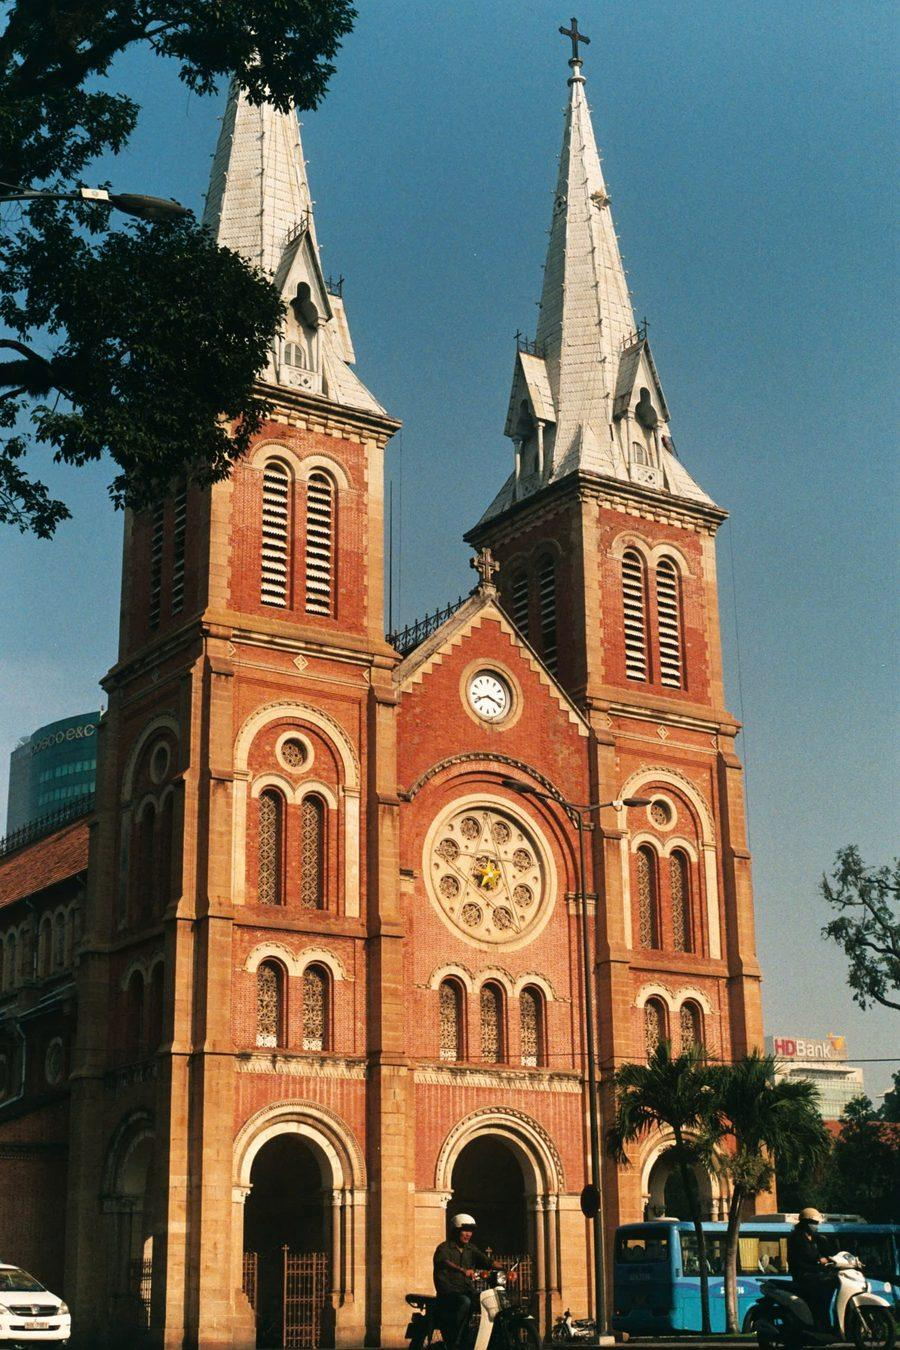
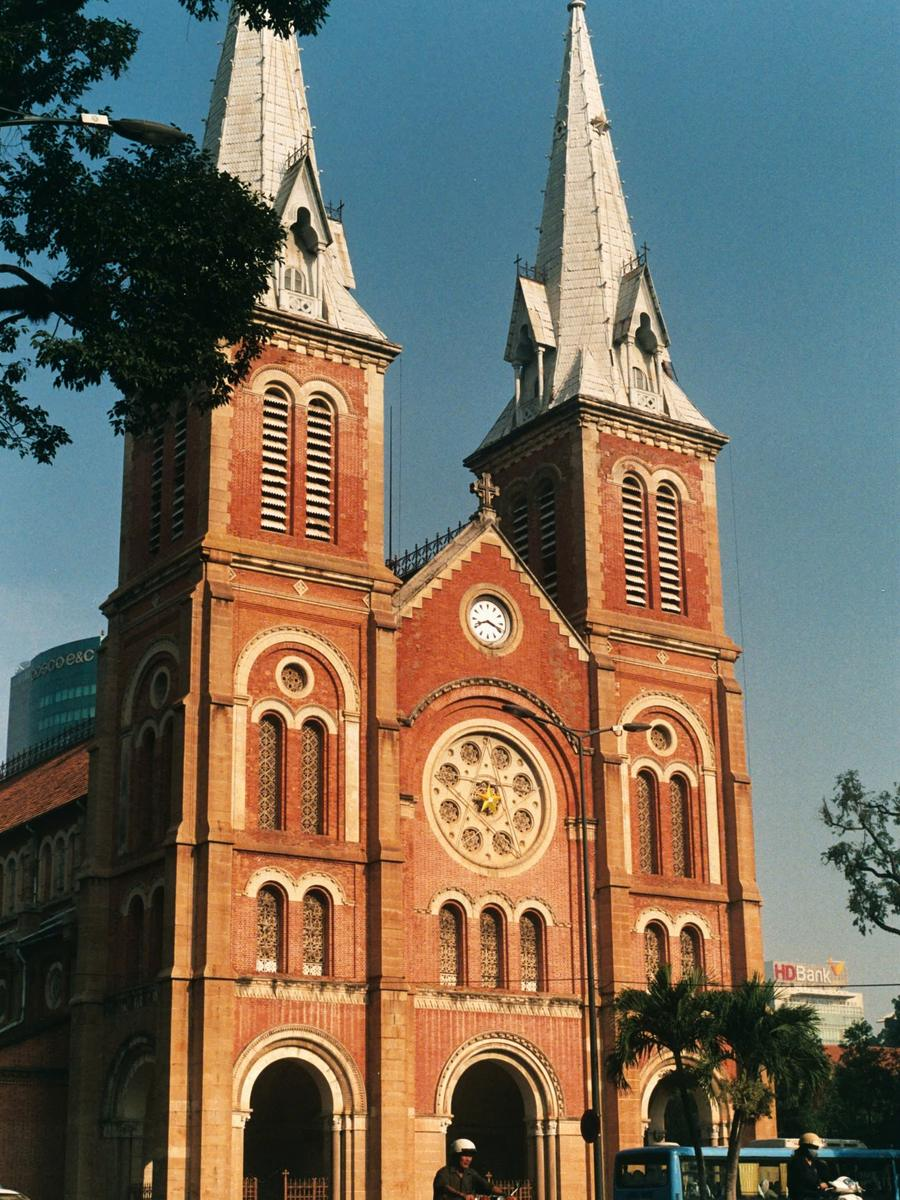
About: ảnh tỉ lệ 3:4 theo Figma (desktop 360 × 480, mobile 171 × 228)
Claude-Session: https://claude.ai/code/session_0125J9JXyfPE3GceF83rZHZp

diff --git a/index.html b/index.html
@@ -9,7 +9,7 @@
   <!-- iOS: no automatic links (and their underline) on the email / phone -->
   <meta name="format-detection" content="telephone=no, email=no, address=no, date=no">
   <link rel="preload" href="assets/fonts/AnNamSerif-VF.woff2?v=0.913s" as="font" type="font/woff2" crossorigin>
-  <link rel="stylesheet" href="assets/css/style.css?v=202611120539">
+  <link rel="stylesheet" href="assets/css/style.css?v=202611120541">
   <!-- the loading screen plays once per visit; coming back from another
        page of the site (Contact) Home just rolls in -->
   <script>(function (r) { var seen = false; try { seen = sessionStorage.getItem("dz-seen") === "1"; history.scrollRestoration = "manual"; } catch (e) {}
@@ -25,7 +25,7 @@
       <p class="loader-contact trim">hello@dizai.studio<br>+84 937 937 195<br>Saigon, Vietnam</p>
     </div>
     <div class="loader-bottom">
-      <img class="seal" src="assets/img/dizai-studio-seal.svg?v=202611120539" width="199" height="231" alt="">
+      <img class="seal" src="assets/img/dizai-studio-seal.svg?v=202611120541" width="199" height="231" alt="">
       <p class="display loader-count">0%</p>
     </div>
   </div>
@@ -52,7 +52,7 @@
       <p class="display line-design">DESIGN</p>
       <p class="display line-studio">STUDIO</p>
       <div class="type-row">
-        <img class="seal" src="assets/img/dizai-studio-seal.svg?v=202611120539" width="199" height="231" alt="">
+        <img class="seal" src="assets/img/dizai-studio-seal.svg?v=202611120541" width="199" height="231" alt="">
         <p class="display line-est">EST</p>
         <p class="display line-year">2024</p>
       </div>
@@ -81,17 +81,17 @@
   </main>
 
   <section class="work" id="work" aria-label="Work">
-    <img class="work-mark" src="assets/img/dizai-mark.svg?v=202611120539" width="83" height="104" alt="">
+    <img class="work-mark" src="assets/img/dizai-mark.svg?v=202611120541" width="83" height="104" alt="">
     <h2 class="display work-title">WORK</h2>
     <p class="work-hint trim" aria-hidden="true">Scroll down</p>
     <ul class="work-list">
-      <li class="work-card" data-cat="Website" data-name="CHOCHOI creative website" data-desc="ChoChoi is a glocal-minded branding studio"><a href="work/chochoi/"><img src="assets/img/work/chochoi.jpg?v=202611120539" width="1146" height="860" alt="ChoChoi Creative website on a desktop screen"></a></li>
-      <li class="work-card" data-cat="Mobile Application" data-name="Viettel POST" data-desc="Viettel Post is one of Vietnam’s largest logistics providers"><a href="work/viettel-post/"><img src="assets/img/work/viettel-post-app.jpg?v=202611120539" width="1146" height="860" alt="Viettel Post mobile app in hand"></a></li>
-      <li class="work-card" data-cat="Web Application" data-name="NURIFLEX" data-desc="One-stop Provider In Rooftop Solar Solution"><a href="work/nuriflex/"><img src="assets/img/work/nuriflex.jpg?v=202611120539" width="1146" height="860" alt="NuriFlex dashboard, Meter Alarm screen"></a></li>
-      <li class="work-card" data-cat="Website" data-name="NUFF JUICE" data-desc="A tropical fruit juice brand made from Vietnamese fruit—freshly pressed and never from concentrate."><a href="work/nuff/"><img src="assets/img/work/nuff.jpg?v=202611120539" width="1146" height="860" alt="NUFF passion fruit juice website"></a></li>
-      <li class="work-card" data-cat="Tablet &amp; Mobile Application" data-name="Viettel Tammi" data-desc="Viettel Tammi is an all-in-one super app and a new digital ecosystem developed by Viettel Telecom."><a href="work/viettel-tammi/"><img src="assets/img/work/viettel-tammi.jpg?v=202611120539" width="1146" height="860" alt="Viettel Tammi sign-in screen on a TV"></a></li>
-      <li class="work-card" data-cat="Website" data-name="FARMERS MARKET" data-desc="The shop produces sausages, salami, Wisconsin cheeses, and game-meat snack sticks using traditional, old-fashioned methods."><a href="work/farmers-market/"><img src="assets/img/work/farmers-market.jpg?v=202611120539" width="1146" height="860" alt="Farmers Market website, Spicy Cajun summer sausage page"></a></li>
-      <li class="work-card" data-cat="Design System" data-name="Zen Design System" data-desc="The only design system for every products you imagine"><a href="work/zen-design-system/"><img src="assets/img/work/zen-design-system.jpg?v=202611120539" width="1146" height="860" alt="Zen Design System cover"></a></li>
+      <li class="work-card" data-cat="Website" data-name="CHOCHOI creative website" data-desc="ChoChoi is a glocal-minded branding studio"><a href="work/chochoi/"><img src="assets/img/work/chochoi.jpg?v=202611120541" width="1146" height="860" alt="ChoChoi Creative website on a desktop screen"></a></li>
+      <li class="work-card" data-cat="Mobile Application" data-name="Viettel POST" data-desc="Viettel Post is one of Vietnam’s largest logistics providers"><a href="work/viettel-post/"><img src="assets/img/work/viettel-post-app.jpg?v=202611120541" width="1146" height="860" alt="Viettel Post mobile app in hand"></a></li>
+      <li class="work-card" data-cat="Web Application" data-name="NURIFLEX" data-desc="One-stop Provider In Rooftop Solar Solution"><a href="work/nuriflex/"><img src="assets/img/work/nuriflex.jpg?v=202611120541" width="1146" height="860" alt="NuriFlex dashboard, Meter Alarm screen"></a></li>
+      <li class="work-card" data-cat="Website" data-name="NUFF JUICE" data-desc="A tropical fruit juice brand made from Vietnamese fruit—freshly pressed and never from concentrate."><a href="work/nuff/"><img src="assets/img/work/nuff.jpg?v=202611120541" width="1146" height="860" alt="NUFF passion fruit juice website"></a></li>
+      <li class="work-card" data-cat="Tablet &amp; Mobile Application" data-name="Viettel Tammi" data-desc="Viettel Tammi is an all-in-one super app and a new digital ecosystem developed by Viettel Telecom."><a href="work/viettel-tammi/"><img src="assets/img/work/viettel-tammi.jpg?v=202611120541" width="1146" height="860" alt="Viettel Tammi sign-in screen on a TV"></a></li>
+      <li class="work-card" data-cat="Website" data-name="FARMERS MARKET" data-desc="The shop produces sausages, salami, Wisconsin cheeses, and game-meat snack sticks using traditional, old-fashioned methods."><a href="work/farmers-market/"><img src="assets/img/work/farmers-market.jpg?v=202611120541" width="1146" height="860" alt="Farmers Market website, Spicy Cajun summer sausage page"></a></li>
+      <li class="work-card" data-cat="Design System" data-name="Zen Design System" data-desc="The only design system for every products you imagine"><a href="work/zen-design-system/"><img src="assets/img/work/zen-design-system.jpg?v=202611120541" width="1146" height="860" alt="Zen Design System cover"></a></li>
     </ul>
     <div class="work-caption" aria-hidden="true"><ol class="wc-list"></ol></div>
   </section>
@@ -100,11 +100,11 @@
 
   <div class="cursor cursor-invert" aria-hidden="true"></div>
   <div class="cursor cursor-tint" aria-hidden="true"></div>
-  <script src="assets/js/roll.js?v=202611120539"></script>
-  <script src="assets/js/loader.js?v=202611120539"></script>
+  <script src="assets/js/roll.js?v=202611120541"></script>
+  <script src="assets/js/loader.js?v=202611120541"></script>
   <script src="assets/vendor/gsap/gsap.min.js?v=3.15.0"></script>
   <script src="assets/vendor/gsap/CustomEase.min.js?v=3.15.0"></script>
-  <script src="assets/js/work.js?v=202611120539"></script>
-  <script src="assets/js/cursor.js?v=202611120539"></script>
+  <script src="assets/js/work.js?v=202611120541"></script>
+  <script src="assets/js/cursor.js?v=202611120541"></script>
 </body>
 </html>

diff --git a/about/index.html b/about/index.html
@@ -9,7 +9,7 @@
   <!-- iOS: no automatic links (and their underline) on the email / phone -->
   <meta name="format-detection" content="telephone=no, email=no, address=no, date=no">
   <link rel="preload" href="../assets/fonts/AnNamSerif-VF.woff2?v=0.913s" as="font" type="font/woff2" crossorigin>
-  <link rel="stylesheet" href="../assets/css/style.css?v=202611120539">
+  <link rel="stylesheet" href="../assets/css/style.css?v=202611120541">
   <script>(function (r) { r.classList.add("is-entering"); try { history.scrollRestoration = "manual"; } catch (e) {}
     setTimeout(function () { r.classList.remove("is-entering"); }, 3000); })(document.documentElement)</script>
 </head>
@@ -31,7 +31,7 @@
   </header>
 
   <main class="ab">
-    <img class="cp-mark ab-mark" src="../assets/img/dizai-mark.svg?v=202611120539" width="83" height="104" alt="">
+    <img class="cp-mark ab-mark" src="../assets/img/dizai-mark.svg?v=202611120541" width="83" height="104" alt="">
 
     <address class="contact cp-info ab-info trim">
       <a href="mailto:hello@dizai.studio">hello@dizai.studio</a><br>
@@ -47,7 +47,7 @@
       <span class="ab-line">Experiences</span>
     </h1>
 
-    <div class="ab-photo-box"><img class="ab-photo" src="../assets/img/about-saigon.jpg?v=202611120539" width="900" height="1350" alt="Notre-Dame Cathedral Basilica of Saigon under a blue sky"></div>
+    <div class="ab-photo-box"><img class="ab-photo" src="../assets/img/about-saigon.jpg?v=202611120541" width="900" height="1200" alt="Notre-Dame Cathedral Basilica of Saigon under a blue sky"></div>
 
     <div class="ab-text">
       <p class="trim">We are designers from Vietnam, inspired by top-tier design work from within Vietnam.</p>
@@ -70,9 +70,9 @@
 
   <div class="cursor cursor-invert" aria-hidden="true"></div>
   <div class="cursor cursor-tint" aria-hidden="true"></div>
-  <script src="../assets/js/roll.js?v=202611120539"></script>
+  <script src="../assets/js/roll.js?v=202611120541"></script>
   <script src="../assets/vendor/gsap/gsap.min.js?v=3.15.0"></script>
-  <script src="../assets/js/about.js?v=202611120539"></script>
-  <script src="../assets/js/cursor.js?v=202611120539"></script>
+  <script src="../assets/js/about.js?v=202611120541"></script>
+  <script src="../assets/js/cursor.js?v=202611120541"></script>
 </body>
 </html>

diff --git a/assets/css/style.css b/assets/css/style.css
@@ -713,7 +713,7 @@ body::after {
 /* ---------- About (Figma 35:29437, 1512 × 2101; mobile 35:29599) ----------
    A long page in units of the 1432 content width: MAKE IDEAS / INTO
    IMPACTFULL / EXPERIENCES (Regular 172, line height 0.8: 18 between the
-   cap boxes), the arched photo of Saigon (360 × 540), two lines about the
+   cap boxes), the arched photo of Saigon (360 × 480), two lines about the
    studio, then SEND US YOUR PROBLEMS, HELLO@ / DIZAI.STUDIO (172) and
    LINKEDIN ✱ FACEBOOK as on Contact, © 2024 at the foot. The contact block
    top left, the "đs" mark top centre and the menu stay at the top. */
@@ -762,7 +762,7 @@ body::after {
 .ab-photo {
   display: block;
   width: calc(var(--u) * 360);
-  height: calc(var(--u) * 540);
+  height: calc(var(--u) * 480);
   margin-top: calc(var(--u) * 39);
   object-fit: cover;
   border-radius: 9999px 9999px 0 0; /* an arch: a half circle on top */
@@ -786,14 +786,14 @@ body::after {
 .is-entering .ab { visibility: hidden; }
 @media (max-width: 720px) {
   /* phone (units of 358): the title on four lines (70, 7 apart), the
-     photo 171 × 257, everything 24 apart; the email on three lines (70) */
+     photo 171 × 228, everything 24 apart; the email on three lines (70) */
   .ab { --u: calc(100cqi / 358); }
   .ab-flow { padding-top: calc(var(--u) * 138); }
   .ab-mark { top: 44px; }
   .page-about .cp-info { display: none; }
   .ab-title { font-size: calc(var(--u) * 70); gap: calc(var(--u) * 7); }
   .ab-em { display: block; margin: calc(var(--u) * 7) 0 0; font-variation-settings: normal; }
-  .ab-photo { width: calc(var(--u) * 171); height: calc(var(--u) * 257); margin-top: calc(var(--u) * 24); }
+  .ab-photo { width: calc(var(--u) * 171); height: calc(var(--u) * 228); margin-top: calc(var(--u) * 24); }
   .ab-text { width: 100%; margin-top: calc(var(--u) * 24); }
   .ab-contact { --fs: calc(var(--u) * 70); margin-top: calc(var(--u) * 80); gap: 12px; }
   .ab-copy { margin-top: calc(var(--u) * 77); }

diff --git a/contact/index.html b/contact/index.html
@@ -9,7 +9,7 @@
   <!-- iOS: no automatic links (and their underline) on the email / phone -->
   <meta name="format-detection" content="telephone=no, email=no, address=no, date=no">
   <link rel="preload" href="../assets/fonts/AnNamSerif-VF.woff2?v=0.913s" as="font" type="font/woff2" crossorigin>
-  <link rel="stylesheet" href="../assets/css/style.css?v=202611120539">
+  <link rel="stylesheet" href="../assets/css/style.css?v=202611120541">
   <script>document.documentElement.classList.add("is-entering"); setTimeout(function () { document.documentElement.classList.remove("is-entering"); }, 3000);</script>
 </head>
 <body class="page-contact">
@@ -27,7 +27,7 @@
 
   <main class="cp">
     <h1 class="visually-hidden">Contact Đìzai Studio</h1>
-    <img class="cp-mark" src="../assets/img/dizai-mark.svg?v=202611120539" width="83" height="104" alt="">
+    <img class="cp-mark" src="../assets/img/dizai-mark.svg?v=202611120541" width="83" height="104" alt="">
 
     <address class="contact cp-info trim">
       <a href="mailto:hello@dizai.studio">hello@dizai.studio</a><br>
@@ -49,9 +49,9 @@
 
   <div class="cursor cursor-invert" aria-hidden="true"></div>
   <div class="cursor cursor-tint" aria-hidden="true"></div>
-  <script src="../assets/js/roll.js?v=202611120539"></script>
+  <script src="../assets/js/roll.js?v=202611120541"></script>
   <script src="../assets/vendor/gsap/gsap.min.js?v=3.15.0"></script>
-  <script src="../assets/js/contact.js?v=202611120539"></script>
-  <script src="../assets/js/cursor.js?v=202611120539"></script>
+  <script src="../assets/js/contact.js?v=202611120541"></script>
+  <script src="../assets/js/cursor.js?v=202611120541"></script>
 </body>
 </html>

diff --git a/README.md b/README.md
@@ -8,7 +8,7 @@ Website của Đìzai Studio. HTML/CSS tĩnh, không cần build: mở `index.ht
 - `assets/js/roll.js`: hiệu ứng chuyển cảnh chung của cả trang, "chữ trượt lên và nhòe": khi biến mất, từng chữ cái trượt lên và nhòe dần cho tới khi mất; khi xuất hiện, từng chữ cái trồi lên từ dưới, nhòe rồi rõ dần. Các chữ lệch nhịp nhau dọc theo dòng. Mỗi chữ giữ đúng khoảng cách của chữ gốc nên kerning không đổi; lúc đứng yên, chữ được trả về nguyên bản (link, kerning, chọn chữ đều như cũ). Ảnh (con dấu, logo nhỏ, số đếm, dấu ✱) trượt lên và nhòe theo cùng đường cong. Menu (HOME / WORK / CONTACT) không có hiệu ứng: đứng yên khi chuyển trang, khi qua lại Home ↔ Work và khi hết màn loading; chỉ dấu mũi tên và độ nghiêng chữ đổi theo trang đang xem. Đoạn chữ dài nhiều dòng (mô tả dự án, khối liên hệ) giữ nguyên chỗ xuống dòng trong lúc trượt, không bị dồn thành một dòng dài.
 - `assets/js/work.js`: chuyển Home → Work → Contact (Figma Work-02 `23:10013`, mobile `22:66`). Trang là một sân khấu ghim cố định, không có thanh cuộn, chỉ có hai trạng thái Home và Work (bỏ bước đệm Work-01 có chữ SCROLL DOWN). Cuộn nhẹ (lăn chuột, vuốt lên, phím ↓ / Page Down / Space) ở Home là chạy cả đoạn chuyển sang Work: hiện ngay dự án đầu kèm tên và mô tả. Ở Work: desktop, lăn chuột trong vùng danh sách (cột tên dự án và cột ảnh) thì chạy danh sách dự án, mỗi nấc chuột một dự án (trackpad thì danh sách chạy theo tay rồi dừng đúng vào một dự án). Lúc dừng, danh sách trôi vào dự án thật chậm (lò xo giảm chấn tới hạn, khoảng 2–3 giây), giữ nguyên đà đang có, không vượt quá rồi giật ngược lại; đã kéo được một phần năm đường thì đi tiếp sang dự án kế chứ không kéo lùi về; lăn ngoài vùng đó thì xuống Contact, lăn lên thì về Home. Mobile: vuốt ngang trên hàng ảnh / phần tên để đổi dự án (vuốt nhanh là sang dự án kế), vuốt lên ở chỗ nào khác (kể cả vuốt dọc trên ảnh) thì sang Contact, vuốt xuống thì về Home. Phím ← / → đổi dự án. Một cú cuộn chỉ đi một bước: quán tính của trackpad sau đó bị bỏ qua tới khi tay dừng, nên không trượt một mạch từ Home qua Contact. Chữ chỉ có ở Home cuộn đi từng dòng, con dấu trượt lên ra khỏi khung; khối liên hệ trượt lên góc trên (desktop; mobile: khối liên hệ cuộn đi cùng Home), menu chuyển dấu ← sang WORK. Chữ WORK (262, mobile 99) cuộn vào ngay ở chỗ của nó (desktop: đáy trái; mobile: dưới logo), logo nhỏ "đs" trượt vào ở giữa trên (mobile: ngay dưới menu), ảnh dự án đi vào. Desktop: ảnh 573 × 430 xếp thành cột ở giữa phải, cách nhau 40, chạy từ dưới lên; mobile (Figma `22:66`): chữ WORK ngay dưới logo (cách mép trên 156), ảnh 350 × 262 thành hàng, cách chữ WORK 40, cách nhau 8 (mép ảnh kế tiếp ló ra bên phải), chạy từ phải sang. 7 dự án (ảnh cập nhật theo Figma `23:23249`; ChoChoi, Viettel Post, NuriFlex, NUFF, Viettel Tammi, Farmers Market, Zen Design System; ảnh và mô tả theo Figma `23:23249`). Tên và mô tả của dự án đang ở vị trí đầu nằm cạnh ảnh (mobile: dưới ảnh 44, chữ dài thì dồn xuống) và cuộn chữ sang dự án mới khi ảnh đổi. Danh sách lặp vô tận. Cạnh ảnh (mobile: dưới ảnh) là danh sách tên các dự án (Figma `29:24523`, `29:24528`): tên các dự án khác màu xanh nhạt #d3dcd3, dự án đang hiện màu mực kèm mô tả; desktop có 3 tên phía trên và 3 phía dưới, lặp vòng, mobile thì danh sách cách ảnh 40, dự án đang hiện đứng đầu, 4 dự án tiếp theo bên dưới. Desktop có thêm phân loại của dự án đang hiện (Website, Mobile Application, Web Application, Tablet & Mobile Application, Design System; Figma `33:27045`) ở cột trái, ngang hàng tên; mobile không có. Khi đổi dự án, cả danh sách trượt một nấc; tên và mô tả dự án luôn hiện và luôn nét, đổi ngay theo ảnh nằm ngang hàng. Dòng cuối không bao giờ chỉ có một chữ (hai chữ cuối được nối bằng dấu cách không ngắt dòng, thêm `text-wrap: pretty`). Tên dự án và luôn là của ảnh nằm ngang hàng với phần chữ (mobile: ảnh ở giữa màn hình, ngay trên phần chữ). Ảnh treo như tờ giấy ghim mép trên và bay phấp phới (18 dải ngang lồng nhau), không có đổ bóng; trên điện thoại và màn cảm ứng là một tờ liền đung đưa nhẹ trên ghim (dải 3D lồng sâu bị rách vệt trắng trên màn mật độ cao và không ổn định trên Safari iOS). Đoạn Home → Work là một timeline GSAP chạy tới hoặc lùi khi chuyển trạng thái (cuộn, vuốt, phím hoặc bấm HOME / WORK trên menu); đường cong chuyển động định nghĩa bằng CustomEase (`dz.move`). Tải lại trang hoặc từ Contact quay về thì mở lại đúng Home / Work và đúng dự án đang xem.
 - `assets/vendor/gsap/`: GSAP 3.15.0 (gsap, CustomEase dùng trên trang; ScrollTrigger, ScrollToPlugin còn để trong thư mục nhưng không tải), bản rút gọn lấy nguyên từ npm. Dùng miễn phí kể cả thương mại theo [Standard "No Charge" GSAP License](https://gsap.com/standard-license); đây không phải giấy phép mã nguồn mở (xem `NOTICE.md`).
-- `about/index.html` + `assets/js/about.js`: trang About (Figma `35:29437`, mobile `35:29599`). Desktop: MAKE IDEAS / INTO *IMPACTFULL* / EXPERIENCES (Regular 172, IMPACTFULL nghiêng theo trục slnt, giãn dòng 0.8), ảnh nhà thờ Đức Bà Sài Gòn khung vòm 360 × 540, hai đoạn giới thiệu, rồi SEND US YOUR PROBLEMS, HELLO@ / DIZAI.STUDIO (172), LINKEDIN ✱ FACEBOOK, © 2024 ở cuối. Mobile: tiêu đề 4 dòng cỡ 70, ảnh 171 × 257, email 3 dòng cỡ 70. Menu, logo "đs" và khối liên hệ trên cùng đứng yên; phần nội dung cuộn trong khung riêng; mỗi phần (từng dòng tiêu đề, ảnh, từng đoạn chữ, từng dòng email…) tự mờ hẳn rồi mất trọn vẹn ngay khi trôi lên tới chỗ tiêu đề bắt đầu, nên không bao giờ đè lên menu và logo; cuộn xuống lại thì hiện lại. Nội dung dài nên mỗi phần (từng dòng tiêu đề, ảnh, từng đoạn chữ, khối liên hệ) chỉ hiện ra (chữ trồi lên rõ dần) khi cuộn tới nó; tới cuối trang thì mọi phần còn lại đều hiện. Thứ tự đi xuống của cả trang: Home → About → Work → Contact. Ở Home cuộn nhẹ là sang About; ở About phải cuộn hết trang, rồi cuộn thêm một lần nữa mới sang Work (lăn chuột, vuốt lên, phím ↓ / Page Down / Space / End). Cú cuộn vừa chạm cuối trang thì chưa tính, kể cả phần trôi theo quán tính của trackpad. Ở đầu trang About cuộn lên thì về Home. Ở Work cuộn lên (ngoài vùng danh sách) thì về About, mở ở đầu trang.
+- `about/index.html` + `assets/js/about.js`: trang About (Figma `35:29437`, mobile `35:29599`). Desktop: MAKE IDEAS / INTO *IMPACTFULL* / EXPERIENCES (Regular 172, IMPACTFULL nghiêng theo trục slnt, giãn dòng 0.8), ảnh nhà thờ Đức Bà Sài Gòn khung vòm 360 × 480, hai đoạn giới thiệu, rồi SEND US YOUR PROBLEMS, HELLO@ / DIZAI.STUDIO (172), LINKEDIN ✱ FACEBOOK, © 2024 ở cuối. Mobile: tiêu đề 4 dòng cỡ 70, ảnh 171 × 228, email 3 dòng cỡ 70. Menu, logo "đs" và khối liên hệ trên cùng đứng yên; phần nội dung cuộn trong khung riêng; mỗi phần (từng dòng tiêu đề, ảnh, từng đoạn chữ, từng dòng email…) tự mờ hẳn rồi mất trọn vẹn ngay khi trôi lên tới chỗ tiêu đề bắt đầu, nên không bao giờ đè lên menu và logo; cuộn xuống lại thì hiện lại. Nội dung dài nên mỗi phần (từng dòng tiêu đề, ảnh, từng đoạn chữ, khối liên hệ) chỉ hiện ra (chữ trồi lên rõ dần) khi cuộn tới nó; tới cuối trang thì mọi phần còn lại đều hiện. Thứ tự đi xuống của cả trang: Home → About → Work → Contact. Ở Home cuộn nhẹ là sang About; ở About phải cuộn hết trang, rồi cuộn thêm một lần nữa mới sang Work (lăn chuột, vuốt lên, phím ↓ / Page Down / Space / End). Cú cuộn vừa chạm cuối trang thì chưa tính, kể cả phần trôi theo quán tính của trackpad. Ở đầu trang About cuộn lên thì về Home. Ở Work cuộn lên (ngoài vùng danh sách) thì về About, mở ở đầu trang.
 - `contact/index.html` + `assets/js/contact.js`: trang Contact (Figma `10:1546`, mobile `32:24558`). Desktop: giữa trang là SEND US YOUR PROBLEMS, HELLO@ / DIZAI.STUDIO hai dòng (AnNam Serif Regular 262, màu mực, giãn dòng 0.8), LINKEDIN ✱ FACEBOOK, cách nhau 20; logo "đs" giữa trên, khối liên hệ góc trên trái, © 2024 ở đáy. Mobile: email ba dòng HELLO@ / DIZAI. / STUDIO (Regular 99, giãn dòng 0.8), cách nhau 12, không có khối liên hệ nhỏ. Vào trang thì chữ cuộn vào lần lượt (giữa trước, khung quanh sau), logo và dấu ✱ trượt lên; bấm sang trang khác thì chữ cuộn đi rồi mới chuyển. Từ Home/Work bấm Contact cũng vậy (`DzRoll.leave` trong `roll.js`). Quay lại trang chủ thì không hiện lại màn loading (chỉ một lần mỗi lượt xem, nhớ bằng `sessionStorage`), chữ Home cuộn vào; bấm WORK ở Contact thì trang chủ mở thẳng ở Work-02 (không thoáng qua Home): menu, chữ WORK, logo trồi lên, ảnh hiện dần. Ở Contact cuộn ngược lên (lăn chuột lên, vuốt xuống trên điện thoại, phím ↑ / Page Up / Home) cũng về thẳng Work như bấm WORK; đẩy nhẹ một chút thì chưa rời trang, và vuốt xuống không kích hoạt tải lại trang của điện thoại.
 - `assets/js/cursor.js`: con trỏ chấm tròn màu chữ, đảo sang màu nền khi chồng lên chữ đậm (chỉ trên máy có chuột)
 - `assets/css/style.css`: toàn bộ style và token màu (`--paper`, `--green-900`, `--green-500`)
